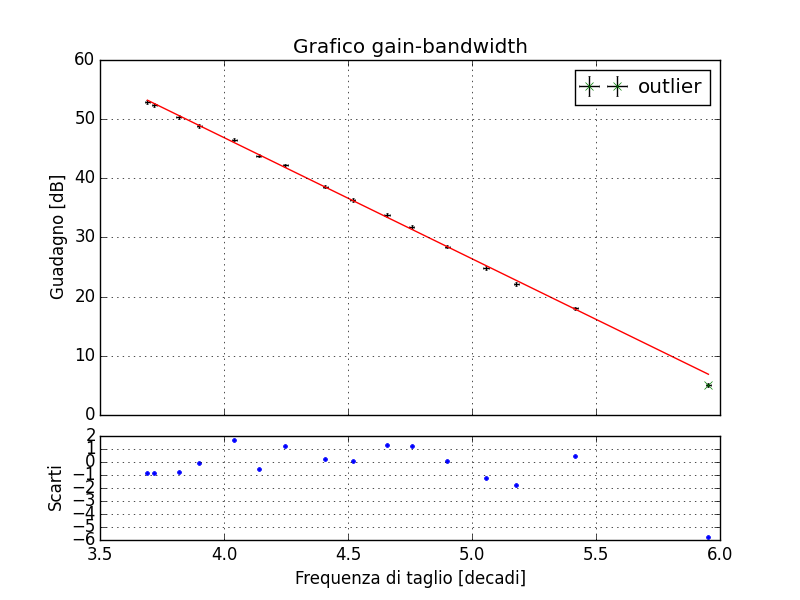
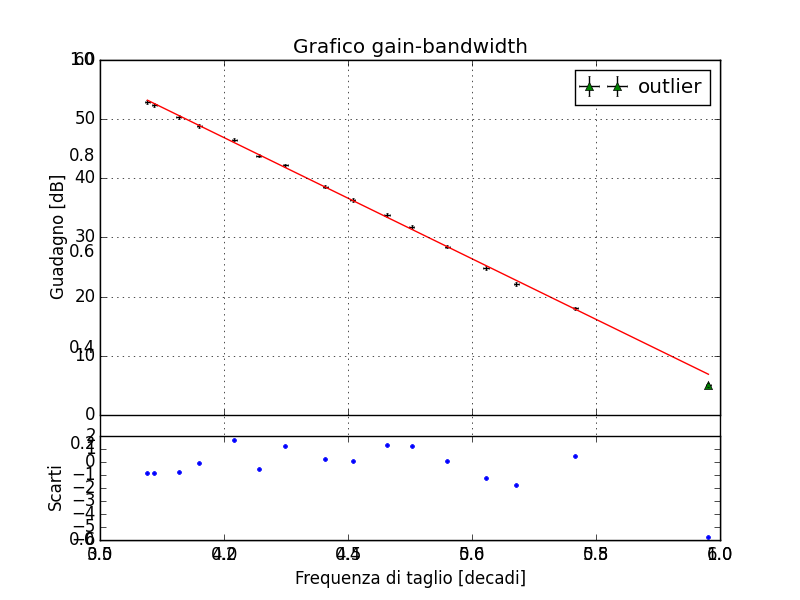
stocazzo burro e salvia

diff --git a/analyzer.py b/analyzer.py
@@ -3,7 +3,7 @@ from pylab import *
 #from scipy.optimize import curve_fit
 #import math
 #import scipy.stats
-from scipy.stats import distributions
+#from scipy.stats import distributions
 import uncertainties
 from uncertainties import unumpy
 from matplotlib import gridspec, pyplot
@@ -822,7 +822,6 @@ def fast_plot(directory, file, units, titolo="", Xlab="", Ylab="", XYfun=XYfunct
 	figure(fig+"_2")
 	if (fig == file or out != True):
 		clf()
-		grid(b=True)
 	title(titolo)
 	xlabel(Xlab)
 	ylabel(Ylab)
@@ -870,7 +869,6 @@ def fit(directory, file, units, f, p0, titolo="", Xlab="", Ylab="", XYfun=XYfunc
 		figure(fig+"_2")
 		if (fig == file):
 			clf()
-			grid(b=True)
 		title(titolo)
 		xlabel(Xlab)
 		ylabel(Ylab)
@@ -892,7 +890,6 @@ def fit(directory, file, units, f, p0, titolo="", Xlab="", Ylab="", XYfun=XYfunc
 	gne=figure(fig+"_1")
 	if (fig == file):
 		clf()
-		grid(b=True)
 	if scarti==True:
 		ax1 = gne.add_subplot(gs[:-1,:])
 		pyplot.setp(ax1.get_xticklabels(), visible=False)
@@ -954,7 +951,7 @@ def fit(directory, file, units, f, p0, titolo="", Xlab="", Ylab="", XYfun=XYfunc
 	savefig(directory+"grafici/fit_"+fig+".pdf")
 	savefig(directory+"grafici/fit_"+fig+".png")
 	if out==True:
-		outlier = errorbar(X_ol,Y_ol,dY_ol,dX_ol, fmt="gx",ecolor="black",capsize=0.5)
+		outlier = errorbar(X_ol,Y_ol,dY_ol,dX_ol, fmt="g^",ecolor="black",capsize=0.5)
 		plt.legend([outlier], ['outlier'], loc="best")
 	if scarti==True:
 		#subplot(212)
@@ -965,12 +962,11 @@ def fit(directory, file, units, f, p0, titolo="", Xlab="", Ylab="", XYfun=XYfunc
 		ylabel("Scarti")
 		if Xscale=="log":
 			xscale("log")
-		plot(X, (Y-f(X,*par))/dY, ".", color="blue")
+		grid(b=True)
+		plot(X, (Y-f(X,*par))/dY, ".", color="black")
 
 		if out ==True:
-			plot(X_ol, (Y_ol-f(X_ol,*par))/dY_ol, ".", color="blue")
-		savefig(directory+"grafici/scarti_"+fig+".pdf")
-		savefig(directory+"grafici/scarti_"+fig+".png")
+			plot(X_ol, (Y_ol-f(X_ol,*par))/dY_ol, "^", color="green")
 	
 	#Calcolo chi, errori e normalizzo la matrice di cov
 	
